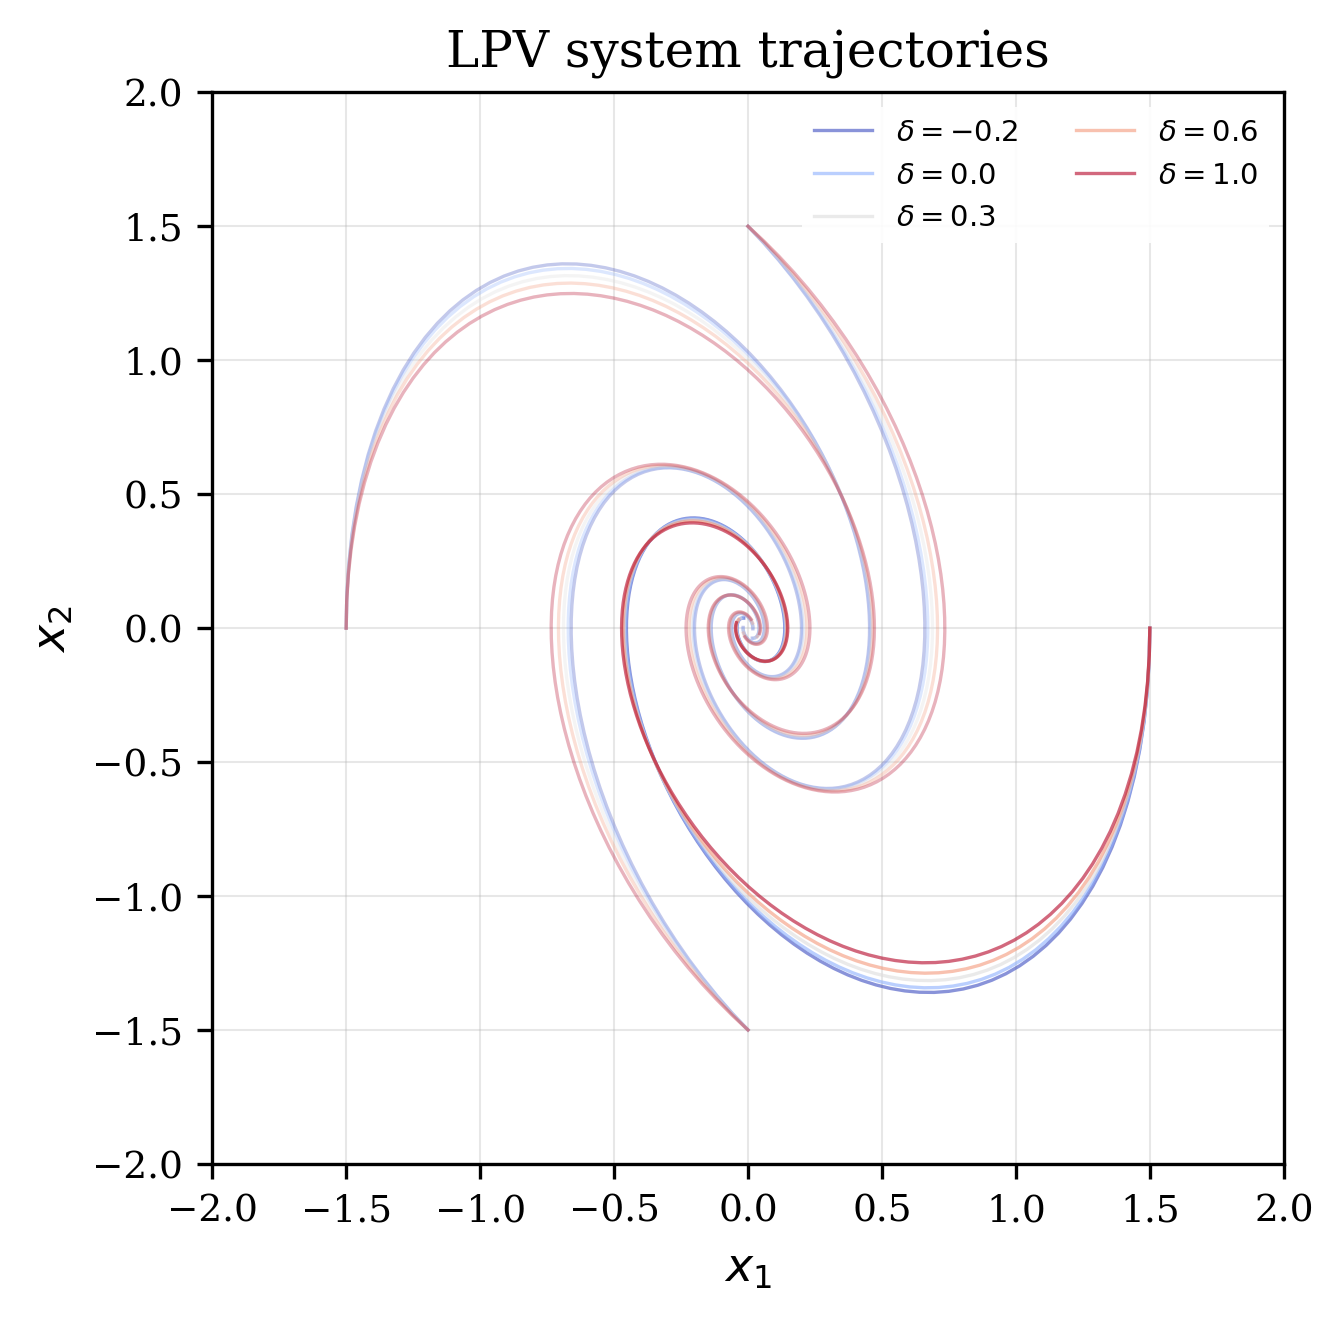
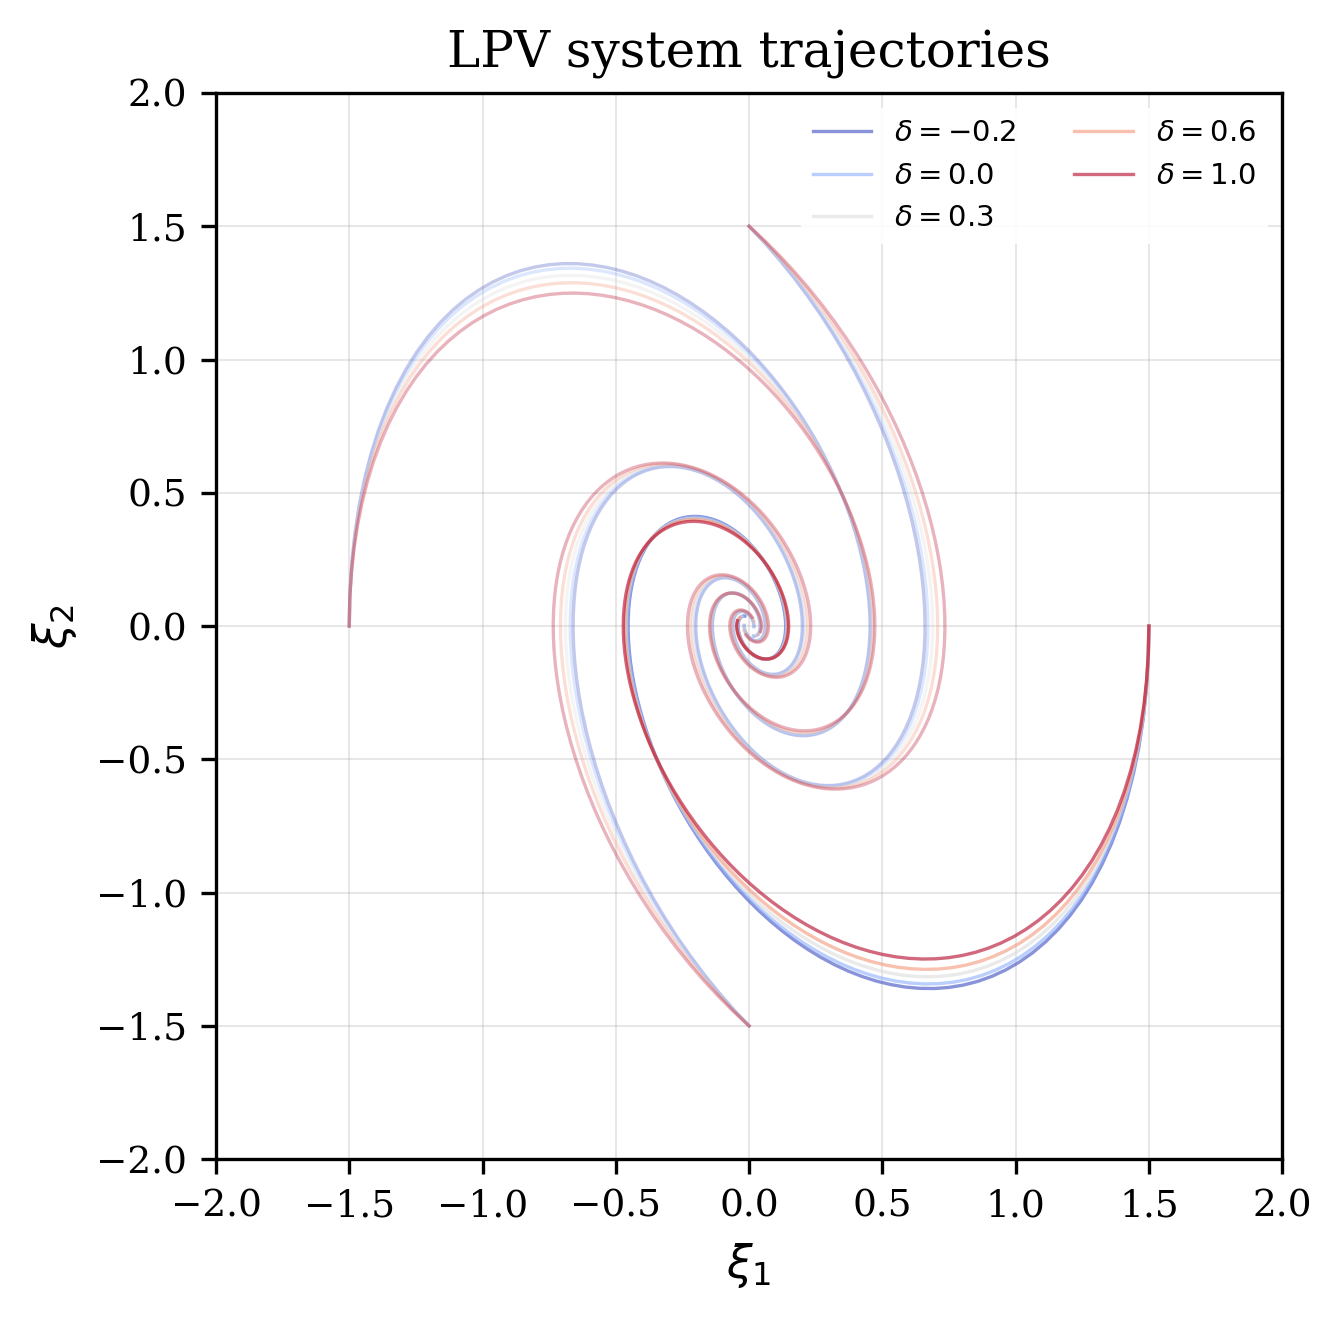
Update LPV trajectory figure axes from x to xi notation

diff --git a/benchmarks/SDP_LPV_stability_3d/plot_data_only.py b/benchmarks/SDP_LPV_stability_3d/plot_data_only.py
@@ -55,8 +55,8 @@ for i, dv in enumerate(delta_vals):
         ax.plot(sol.y[0], sol.y[1], color=colors[i], alpha=alpha,
                 linewidth=0.8, label=label)
 
-ax.set_xlabel('$x_1$')
-ax.set_ylabel('$x_2$')
+ax.set_xlabel(r'$\xi_1$')
+ax.set_ylabel(r'$\xi_2$')
 ax.set_title('LPV system trajectories')
 ax.legend(frameon=True, framealpha=0.9, edgecolor='none', fontsize=7,
           ncol=2, loc='upper right')
